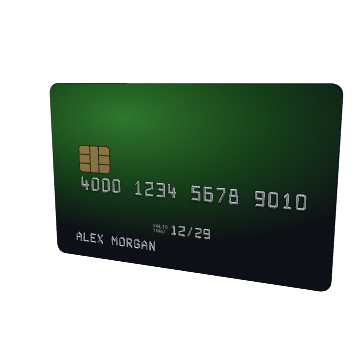
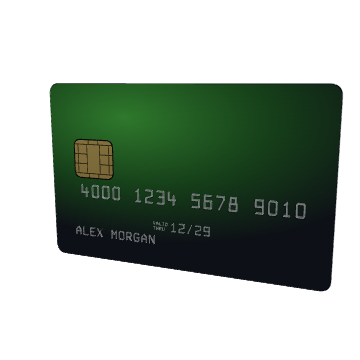
Docs: file the custom objects under Print and Packaging, and edit text props in the explorer
- Custom panel joins Print and Custom box joins Packaging, each at the
  end of its group, in the sidebar, the gallery chips, the API index and
  the page tree. The emptied Custom category is gone.
- The explorer infers a text field for a plain `string` prop, so the
  credit card's number, name and expiry are editable live. A value from
  a shared link is held to 64 characters and always printed as an
  escaped string literal, never spliced into the snippet as written.
- `dpr` gets a slider under Stage. In an arrangement it goes on the
  canvas, like the camera.
- What stays code-only is what a live demo cannot show or drive:
  functions, renderer and CSS objects, frameloop, pauseWhenOffscreen,
  time and the accessible label.
- The credit card's sidebar thumbnail is regenerated with the new chip
  and number position.

Claude-Session: https://claude.ai/code/session_017EjucwXi3MkwEuEQJ9cNqi

diff --git a/apps/docs/components/mockup-explorer/index.tsx b/apps/docs/components/mockup-explorer/index.tsx
@@ -270,9 +270,10 @@ interface Offered {
  * A link is input from anyone, so each change is taken only if the panel
  * offers a control for it here and the value is one that control could have
  * produced - otherwise that change is dropped and the rest still apply. Every
- * string that survives is one of a known set or a hex colour, which also
- * keeps a crafted link from writing code of its own into the snippet, and
- * from there into a StackBlitz project.
+ * string that survives is one of a known set, a hex colour, or a text field's
+ * value - held to its length and printed only as an escaped string literal -
+ * which also keeps a crafted link from writing code of its own into the
+ * snippet, and from there into a StackBlitz project.
  */
 function restoreShared(base: PropState, link: Record<string, unknown>, offered: Offered): PropState {
   const { spec, lockedVariant, hasColor, arranged, owned, editable } = offered
@@ -353,6 +354,8 @@ interface PanelProps {
   transform: EditableProp[]
   /** The stage camera, which belongs with the other stage props. */
   camera?: EditableProp
+  /** The canvas's own inferred props (`dpr`), shown under the stage. */
+  stage: EditableProp[]
   /** Documented, but not something a live demo can drive. */
   readOnly: PropDoc[]
 }
@@ -369,8 +372,11 @@ interface PanelProps {
 const documented = (spec: ExplorerSpec) =>
   new Set((COMPONENT_PROPS[spec.name] ?? []).map((doc) => doc.name))
 
+/** Canvas props with an inferred row, which sit with the stage rather than the model. */
+const STAGE_PROPS = new Set(['dpr'])
+
 function panelProps(spec: ExplorerSpec, driven: Set<string>): PanelProps {
-  const out: PanelProps = { object: [], transform: [], readOnly: [] }
+  const out: PanelProps = { object: [], transform: [], stage: [], readOnly: [] }
   const seen = new Set(driven)
   for (const doc of [...(COMPONENT_PROPS[spec.name] ?? []), ...SHARED_PROPS]) {
     if (seen.has(doc.name)) continue
@@ -378,6 +384,7 @@ function panelProps(spec: ExplorerSpec, driven: Set<string>): PanelProps {
     const prop = editableProp(doc)
     if (!prop) out.readOnly.push(doc)
     else if (prop.control.kind === 'camera') out.camera = prop
+    else if (STAGE_PROPS.has(prop.name)) out.stage.push(prop)
     else if (prop.control.kind === 'vector') out.transform.push(prop)
     else out.object.push(prop)
   }
@@ -509,17 +516,17 @@ const lastWins = (attributes: string[]): string[] => {
   return [...byName.values()]
 }
 
-/**
- * The props an arrangement takes off the object and gives to the canvas or to
- * the individual instances - so neither the stage nor the snippet hands a bare
- * object something the page or the canvas already owns.
- */
 /** The flat view's zoom range, as factors over the fit, and the step a click takes. */
 const FLAT_ZOOM_MIN = 0.25
 const FLAT_ZOOM_MAX = 8
 const FLAT_ZOOM_STEP = 1.25
 
-const NOT_AN_ARRANGED_OBJECT_PROP = ['camera', 'position', 'rotation', 'scale']
+/**
+ * The props an arrangement takes off the object and gives to the canvas or to
+ * the individual instances - so neither the stage nor the snippet hands a bare
+ * object something the page or the canvas already owns.
+ */
+const NOT_AN_ARRANGED_OBJECT_PROP = ['camera', 'dpr', 'position', 'rotation', 'scale']
 
 /** The object props in play - what a bare instance would take too. */
 function objectAttributes(
@@ -628,13 +635,14 @@ function buildArrangedSource(
   extras: EditableProp[]
 ): Line[] {
   const shared = objectAttributes(spec, p, extras, NOT_AN_ARRANGED_OBJECT_PROP)
-  const camera = extras.find((prop) => prop.name === 'camera')
+  // The camera frames the whole composition, and `dpr` sets the whole
+  // canvas's resolution, so both are the canvas's here - there is no
+  // one-liner between the panel row and the stage to route them.
+  const onCanvas = extras.filter((prop) => (prop.name === 'camera' || prop.name === 'dpr') && prop.name in p.extra)
   const canvas = lastWins([
     ...stageAttributes(p),
     ...Object.entries(arrangement.canvas ?? {}).map(([name, value]) => literalAttribute(name, value)),
-    // The camera frames the whole composition, so it is the canvas's here -
-    // there is no one-liner between the panel row and the stage to route it.
-    ...(camera && 'camera' in p.extra ? [propAttribute(camera, p.extra.camera)] : []),
+    ...onCanvas.map((prop) => propAttribute(prop, p.extra[prop.name])),
   ])
   const lines: Line[] = []
   const imports = new Set(['MockupCanvas'])
@@ -844,7 +852,7 @@ function MockupExplorerImpl({
     ...ownedByItems,
   ])
   const panel = panelProps(spec, driven)
-  const editable = [...panel.object, ...panel.transform, ...(panel.camera ? [panel.camera] : [])]
+  const editable = [...panel.object, ...panel.transform, ...(panel.camera ? [panel.camera] : []), ...panel.stage]
 
   /** What a row shows: the value in play, whether it moved, and how to move it. */
   const rowProps = (prop: EditableProp) => ({
@@ -1018,9 +1026,10 @@ function MockupExplorerImpl({
   /**
    * The props that describe the OBJECT - the ones a bare instance takes too.
    *
-   * An arrangement takes four of them back. `camera` frames the composition
-   * rather than any one object, and the one-liner is not there to route it to
-   * the canvas; the transforms are the page's, one per instance. Both are gone
+   * An arrangement takes five of them back. `camera` frames the composition
+   * and `dpr` sets the canvas's resolution rather than any one object's, and
+   * the one-liner is not there to route them to the canvas; the transforms
+   * are the page's, one per instance. Both are gone
    * from the panel too, so nothing here is silently dropping a live row.
    */
   const objectProps: Record<string, unknown> = {
@@ -1046,7 +1055,11 @@ function MockupExplorerImpl({
     fullscreen: p.fullscreen,
     shadows: p.shadows,
     ...(arranged
-      ? { ...arranged.canvas, ...(p.extra.camera ? { camera: p.extra.camera } : {}) }
+      ? {
+          ...arranged.canvas,
+          ...(p.extra.camera ? { camera: p.extra.camera } : {}),
+          ...('dpr' in p.extra ? { dpr: p.extra.dpr } : {}),
+        }
       : {}),
   }
 
@@ -1429,6 +1442,9 @@ function MockupExplorerImpl({
               </span>
             </div>
             {panel.camera ? <PropRow {...rowProps(panel.camera)} /> : null}
+            {panel.stage.map((prop) => (
+              <PropRow key={prop.name} {...rowProps(prop)} />
+            ))}
 
             {panel.transform.length ? (
               <>

diff --git a/apps/docs/components/mockup-explorer/prop-controls.ts b/apps/docs/components/mockup-explorer/prop-controls.ts
@@ -7,9 +7,9 @@ import type { PropDoc } from '@/lib/prop-tables.generated'
  * Everything else a component accepts is described only by the prop table in
  * its API page - a name, a type, a default - and that turns out to be enough
  * to build the control from: `boolean` is a switch, `number` a slider,
- * `'a' \| 'b'` a select, `{ width?, height? }` a set of millimetre fields, and
- * a `*Color` string a color well. So the explorer drives those too, and the
- * table stays the single source of truth.
+ * `'a' \| 'b'` a select, `{ width?, height? }` a set of millimetre fields, a
+ * `*Color` string a color well and any other `string` a text field. So the
+ * explorer drives those too, and the table stays the single source of truth.
  *
  * A prop with a type this can't read stays a read-only row, exactly as the
  * whole group used to be. That is the deliberate fallback: a new prop lands in
@@ -71,6 +71,8 @@ export type Control =
   | { kind: 'vector'; axes: Axis[]; min: number; max: number; step: number }
   | { kind: 'dimensions'; axes: Axis[]; unit: string }
   | { kind: 'camera' }
+  /** Free text - a card's embossed number or name - up to `maxLength` characters. */
+  | { kind: 'text'; maxLength: number }
 
 export type EnumOption = string | boolean
 
@@ -153,7 +155,18 @@ const RANGES: Record<
   cornerRadius: { min: 0, max: 40, step: 0.5, unit: 'mm' },
   // The only numeric `size`: a TV's diagonal, which its own docs clamp.
   size: { min: 32, max: 98, step: 1, unit: '"' },
+  dpr: { min: 0.5, max: 3, step: 0.25, unit: '×' },
 }
+
+/**
+ * The longest string a text field takes, and a shared link may carry: room
+ * for any card number or name, and short enough that a crafted link cannot
+ * bloat the snippet.
+ */
+const TEXT_MAX = 64
+
+/** `'ALEX MORGAN'` - a quoted string default, unquoted; anything else names no value. */
+const quoted = (stated: string | undefined) => stated?.match(/^'(.*)'$/)?.[1]
 
 /** Bounds for a number with no entry above - centered on whatever it defaults to. */
 const range = (name: string, fallback: number | undefined) =>
@@ -237,6 +250,13 @@ export function editableProp(doc: PropDoc): EditableProp | null {
     )
   }
 
+  // `dpr`: one ratio or a `[min, max]` clamp. The slider sets one ratio, and
+  // starts at the top of the default clamp - the ratio a hi-dpi screen gets.
+  if (/^number \| \[min, max\]$/.test(type)) {
+    const clamp = stated ? allNumbers(stated) : []
+    return of({ kind: 'number', ...range(doc.name, undefined) }, undefined, clamp.at(-1) ?? 1)
+  }
+
   // A union of one - `variant: 'series11'`, the only watch there is - has
   // nothing to choose between, so it stays a documented row rather than
   // becoming a select that cannot change anything.
@@ -262,6 +282,11 @@ export function editableProp(doc: PropDoc): EditableProp | null {
 
   if (type === 'string' && /color$/i.test(doc.name)) {
     return of({ kind: 'color' }, hex(doc.default), hex(doc.default) ?? '#8a8f98')
+  }
+
+  if (type === 'string') {
+    const fallback = quoted(stated)
+    return of({ kind: 'text', maxLength: TEXT_MAX }, fallback, fallback ?? '')
   }
 
   return null
@@ -301,9 +326,10 @@ const MAX_MM = 10_000
  * Each case is the control's own contract: a switch holds a boolean, a slider
  * clamps to its travel, a select to its options, a color well to a hex. The
  * composites are held a little tighter than their number fields, to what an
- * object can be: a size above zero, a camera with a field of view. Nothing
- * free-form gets through, which matters beyond tidiness - these values are
- * printed into the snippet as code.
+ * object can be: a size above zero, a camera with a field of view. The one
+ * free-form value, a text field's, is held to its length and only ever
+ * printed as an escaped string literal (`jsxString`) - which matters beyond
+ * tidiness, because these values are printed into the snippet as code.
  */
 export function acceptValue(prop: EditableProp, value: unknown): unknown {
   const { control } = prop
@@ -320,6 +346,8 @@ export function acceptValue(prop: EditableProp, value: unknown): unknown {
       return (typeof value === 'string' || typeof value === 'boolean') && control.options.includes(value)
         ? value
         : undefined
+    case 'text':
+      return typeof value === 'string' && value.length <= control.maxLength ? value : undefined
     case 'vector':
       return Array.isArray(value) && value.length === control.axes.length && value.every(finite)
         ? value
@@ -365,6 +393,16 @@ export function propSummary(prop: EditableProp, value: unknown): string {
   }
 }
 
+/**
+ * A string as a JSX attribute value: quoted as typed when it reads back
+ * exactly, else a JS string literal in braces. JSX attribute strings have no
+ * escapes and do decode HTML entities, so a quote, an ampersand, a backslash
+ * or a control character goes through `JSON.stringify` - text from a shared
+ * link is never spliced into the code as written.
+ */
+const jsxString = (text: string) =>
+  /^[^"&\\\u0000-\u001f\u007f-\u009f\u2028\u2029]*$/.test(text) ? `"${text}"` : `{${JSON.stringify(text)}}`
+
 /** One prop, written the way it would appear in the snippet. */
 export function propAttribute(prop: EditableProp, value: unknown): string {
   const { name, control } = prop
@@ -381,6 +419,8 @@ export function propAttribute(prop: EditableProp, value: unknown): string {
       return `${name}="${String(value)}"`
     case 'color':
       return `${name}="${String(value)}"`
+    case 'text':
+      return `${name}=${jsxString(String(value))}`
     case 'vector': {
       const axis = (value as number[]).map(num)
       // A uniform scale reads as one number, which is how anyone writes it.

diff --git a/apps/docs/lib/prop-tables.generated.ts b/apps/docs/lib/prop-tables.generated.ts
@@ -184,6 +184,19 @@ export const COMPONENT_PROPS: Record<string, PropDoc[]> = {
     {"name":"surfaceBackground","type":"string","default":"'#ffffff'","description":"CSS background behind your poster content."},
     {"name":"resolution","type":"number","default":"540","description":"Virtual art width in CSS px; height follows its aspect."},
   ],
+  "VinylRecordMockup": [
+    {"name":"vinylColor","type":"string","default":"'#0b0b0d'","description":"Disc color. Classic black; try pressing colors."},
+    {"name":"color","type":"string","default":"'#f2efe8'","description":"Jacket stock (edges and unprinted faces)."},
+    {"name":"surfaceBackground","type":"string","default":"color","description":"CSS background behind cover, back and label - the stock itself unless you set it, so whatever the content leaves clear prints on color."},
+    {"name":"resolution","type":"number","default":"520","description":"Virtual cover width in CSS px; the label shares its dpi."},
+  ],
+  "CustomPanelMockup": [
+    {"name":"size","type":"{ width, height, thickness? }","default":"required","description":"Panel size in millimeters. thickness defaults to 5."},
+    {"name":"color","type":"string","default":"'#f2f1ed'","description":"Stock color: edges, and the back when unprinted."},
+    {"name":"cornerRadius","type":"number","default":"2","description":"Corner rounding in millimeters."},
+    {"name":"surfaceBackground","type":"string","default":"color","description":"CSS background behind each printed face - the stock itself unless you set it, so whatever the content leaves clear prints on color."},
+    {"name":"resolution","type":"number","default":"560","description":"Virtual front face width in CSS px."},
+  ],
   "ProductBoxMockup": [
     {"name":"size","type":"{ width, height, depth }","default":"190×265×55","description":"Real size in millimeters. The longest edge normalizes to the stage, so any size fills the camera at true proportions."},
     {"name":"color","type":"string","default":"'#f4f1ea'","description":"Carton stock: unprinted panels and fold edges."},
@@ -212,24 +225,11 @@ export const COMPONENT_PROPS: Record<string, PropDoc[]> = {
     {"name":"surfaceBackground","type":"string","default":"color","description":"CSS background behind each printed face - the stock itself unless you set it, so whatever the content leaves clear prints on color."},
     {"name":"resolution","type":"number","default":"460","description":"Virtual front face width in CSS px; height follows the bag."},
   ],
-  "CustomPanelMockup": [
-    {"name":"size","type":"{ width, height, thickness? }","default":"required","description":"Panel size in millimeters. thickness defaults to 5."},
-    {"name":"color","type":"string","default":"'#f2f1ed'","description":"Stock color: edges, and the back when unprinted."},
-    {"name":"cornerRadius","type":"number","default":"2","description":"Corner rounding in millimeters."},
-    {"name":"surfaceBackground","type":"string","default":"color","description":"CSS background behind each printed face - the stock itself unless you set it, so whatever the content leaves clear prints on color."},
-    {"name":"resolution","type":"number","default":"560","description":"Virtual front face width in CSS px."},
-  ],
   "CustomBoxMockup": [
     {"name":"size","type":"{ width, height, depth }","default":"required","description":"Box size in millimeters."},
     {"name":"color","type":"string","default":"'#e8e5df'","description":"Stock color for unprinted faces."},
     {"name":"surfaceBackground","type":"string","default":"color","description":"CSS background behind each printed face - the stock itself unless you set it, so whatever the content leaves clear prints on color."},
     {"name":"resolution","type":"number","default":"560","description":"Virtual front face width in CSS px; all faces share its dpi."},
-  ],
-  "VinylRecordMockup": [
-    {"name":"vinylColor","type":"string","default":"'#0b0b0d'","description":"Disc color. Classic black; try pressing colors."},
-    {"name":"color","type":"string","default":"'#f2efe8'","description":"Jacket stock (edges and unprinted faces)."},
-    {"name":"surfaceBackground","type":"string","default":"color","description":"CSS background behind cover, back and label - the stock itself unless you set it, so whatever the content leaves clear prints on color."},
-    {"name":"resolution","type":"number","default":"520","description":"Virtual cover width in CSS px; the label shares its dpi."},
   ],
   "RollupBannerMockup": [
     {"name":"size","type":"{ width?, height? }","default":"850×2000","description":"Physical graphic in mm - e.g. { width: 1000 } for the wide stand. The cassette resizes with it."},

diff --git a/apps/docs/components/mockup-explorer/controls.tsx b/apps/docs/components/mockup-explorer/controls.tsx
@@ -422,6 +422,27 @@ export function PropRow({ prop, value, set, onChange, onReset }: PropRowProps) {
     )
   }
 
+  if (control.kind === 'text') {
+    return (
+      <div className="mx-row" title={doc.description}>
+        <span className="mx-prop">{name}</span>
+        <span className="mx-row-controls">
+          <input
+            type="text"
+            className="mx-text"
+            aria-label={name}
+            spellCheck={false}
+            autoComplete="off"
+            maxLength={control.maxLength}
+            value={String(value ?? '')}
+            onChange={(e) => onChange(e.target.value)}
+          />
+          {reset}
+        </span>
+      </div>
+    )
+  }
+
   if (control.kind === 'enum') {
     // A value a page set outside the presets (a `| string` prop's own colour)
     // is still the one in force, so it stays listed and selected.

diff --git a/apps/docs/app/docs/docs.css b/apps/docs/app/docs/docs.css
@@ -786,7 +786,8 @@
  */
 .mx-select,
 .mx-number,
-.mx-numfield {
+.mx-numfield,
+.mx-text {
   display: inline-flex;
   align-items: center;
   /* Explicit, so the declared height is the measured one whether or not a
@@ -805,7 +806,8 @@
 
 .mx-select:focus-visible,
 .mx-number:focus-visible,
-.mx-numfield:focus-within {
+.mx-numfield:focus-within,
+.mx-text:focus-visible {
   outline: none;
   border-color: var(--mx-accent);
 }
@@ -851,6 +853,13 @@
 .mx-number {
   width: 64px;
   -moz-appearance: textfield;
+}
+
+/* Wide enough for a 19-digit card number in the panel's monospace. */
+.mx-text {
+  width: 13.5em;
+  min-width: 0;
+  font-family: var(--font-mono);
 }
 
 .mx-number::-webkit-outer-spin-button,

diff --git a/apps/docs/components/docs-sidebar.tsx b/apps/docs/components/docs-sidebar.tsx
@@ -8,7 +8,6 @@ import {
   Laptop,
   Newspaper,
   Package,
-  Ruler,
   Signpost,
   Smartphone,
   Tablet,
@@ -62,7 +61,6 @@ const CATEGORY_ICONS: Record<string, LucideIcon> = {
   Packaging: Package,
   'Out of home': Signpost,
   Vehicles: Truck,
-  Custom: Ruler,
 }
 
 /**
